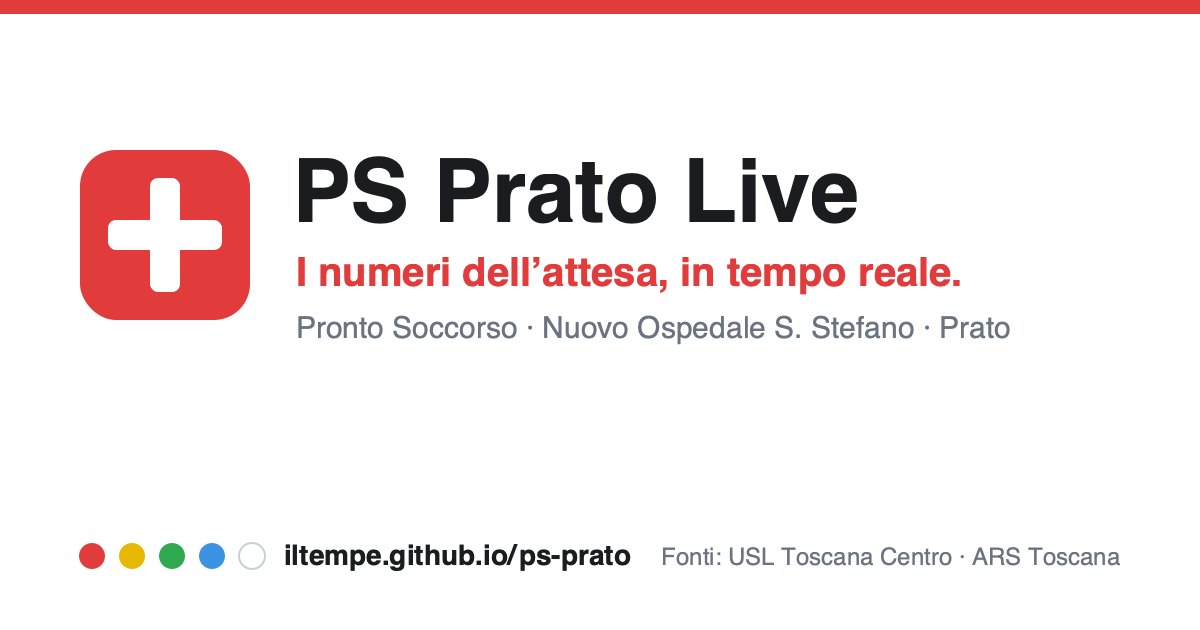
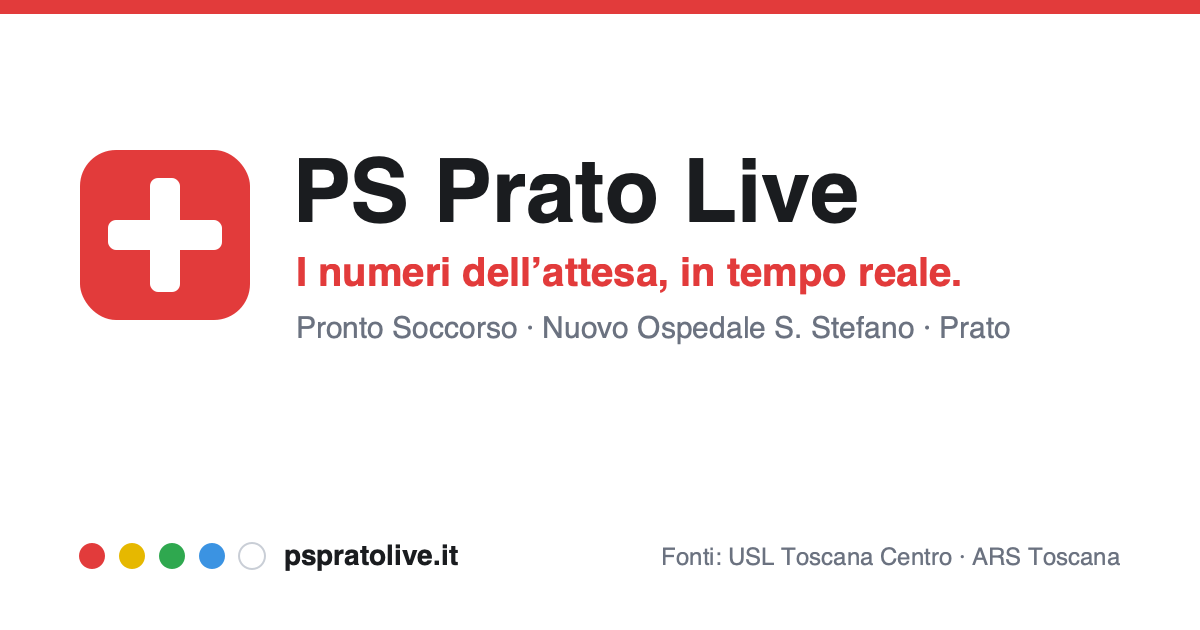
dominio: passa a pspratolive.it (custom domain GitHub Pages)
- CNAME = pspratolive.it
- URL assoluti aggiornati (og:url, og:image, twitter:image, SITE condivisione,
  scritta sulla card) da iltempe.github.io/ps-prato a pspratolive.it
- immagine social rigenerata con il nuovo dominio
- bot Telegram: DASHBOARD -> https://pspratolive.it/

Changed region(s): [[0.2158, 0.8444, 0.5242, 0.9048]]

diff --git a/index.html b/index.html
@@ -12,14 +12,14 @@
 <meta property="og:site_name" content="PS Prato Live">
 <meta property="og:title" content="PS Prato Live — Pronto Soccorso di Prato">
 <meta property="og:description" content="Occupazione del PS in tempo reale + serie storica degli accessi. Fonti: USL Toscana Centro, ARS Toscana.">
-<meta property="og:url" content="https://iltempe.github.io/ps-prato/">
-<meta property="og:image" content="https://iltempe.github.io/ps-prato/og-image.png">
+<meta property="og:url" content="https://pspratolive.it/">
+<meta property="og:image" content="https://pspratolive.it/og-image.png">
 <meta property="og:image:width" content="1200">
 <meta property="og:image:height" content="630">
 <meta name="twitter:card" content="summary_large_image">
 <meta name="twitter:title" content="PS Prato Live — Pronto Soccorso di Prato">
 <meta name="twitter:description" content="Occupazione del PS in tempo reale + serie storica degli accessi.">
-<meta name="twitter:image" content="https://iltempe.github.io/ps-prato/og-image.png">
+<meta name="twitter:image" content="https://pspratolive.it/og-image.png">
 <link rel="preconnect" href="https://fonts.googleapis.com">
 <link rel="preconnect" href="https://fonts.gstatic.com" crossorigin>
 <link href="https://fonts.googleapis.com/css2?family=Big+Shoulders+Display:wght@600;700;800&family=IBM+Plex+Mono:wght@500;600&family=Work+Sans:wght@400;500;600&display=swap" rel="stylesheet">
@@ -296,7 +296,7 @@ function crowdState(n){
   return              {t:"Molto affollato", c:"rosso"};
 }
 
-const SITE = "https://iltempe.github.io/ps-prato/";
+const SITE = "https://pspratolive.it/";
 
 // --- card grafica condivisibile (PNG generato su canvas) -------------------
 function roundRect(g,x,y,w,h,r){
@@ -351,7 +351,7 @@ function drawCard(d){
   g.fillText("Aggiornato alle "+fmtTs(d.ts), 70, 1000);
   g.strokeStyle="#e6e3dc"; g.lineWidth=2; g.beginPath(); g.moveTo(70,1176); g.lineTo(W-70,1176); g.stroke();
   g.fillStyle="#17181a"; g.font="700 40px 'Big Shoulders Display',Arial,sans-serif";
-  g.fillText("iltempe.github.io/ps-prato", 70, 1248);
+  g.fillText("pspratolive.it", 70, 1248);
   g.fillStyle="#6b6f76"; g.font="400 28px 'Work Sans',Arial,sans-serif";
   g.fillText("Fonte: USL Toscana Centro · @iltempe", 70, 1294);
   return cv;

diff --git a/telegram_bot.py b/telegram_bot.py
@@ -38,7 +38,7 @@ TOKEN = os.environ.get("TG_BOT_TOKEN", "").strip()
 API = f"https://api.telegram.org/bot{TOKEN}"
 
 CSV_RAW = "https://raw.githubusercontent.com/iltempe/ps-prato/main/data/presenze.csv"
-DASHBOARD = "https://iltempe.github.io/ps-prato/"
+DASHBOARD = "https://pspratolive.it/"
 
 CODICI = ["rosso", "giallo", "verde", "azzurro", "bianco"]
 EMOJI = {"rosso": "🔴", "giallo": "🟡", "verde": "🟢", "azzurro": "🔵", "bianco": "⚪"}
